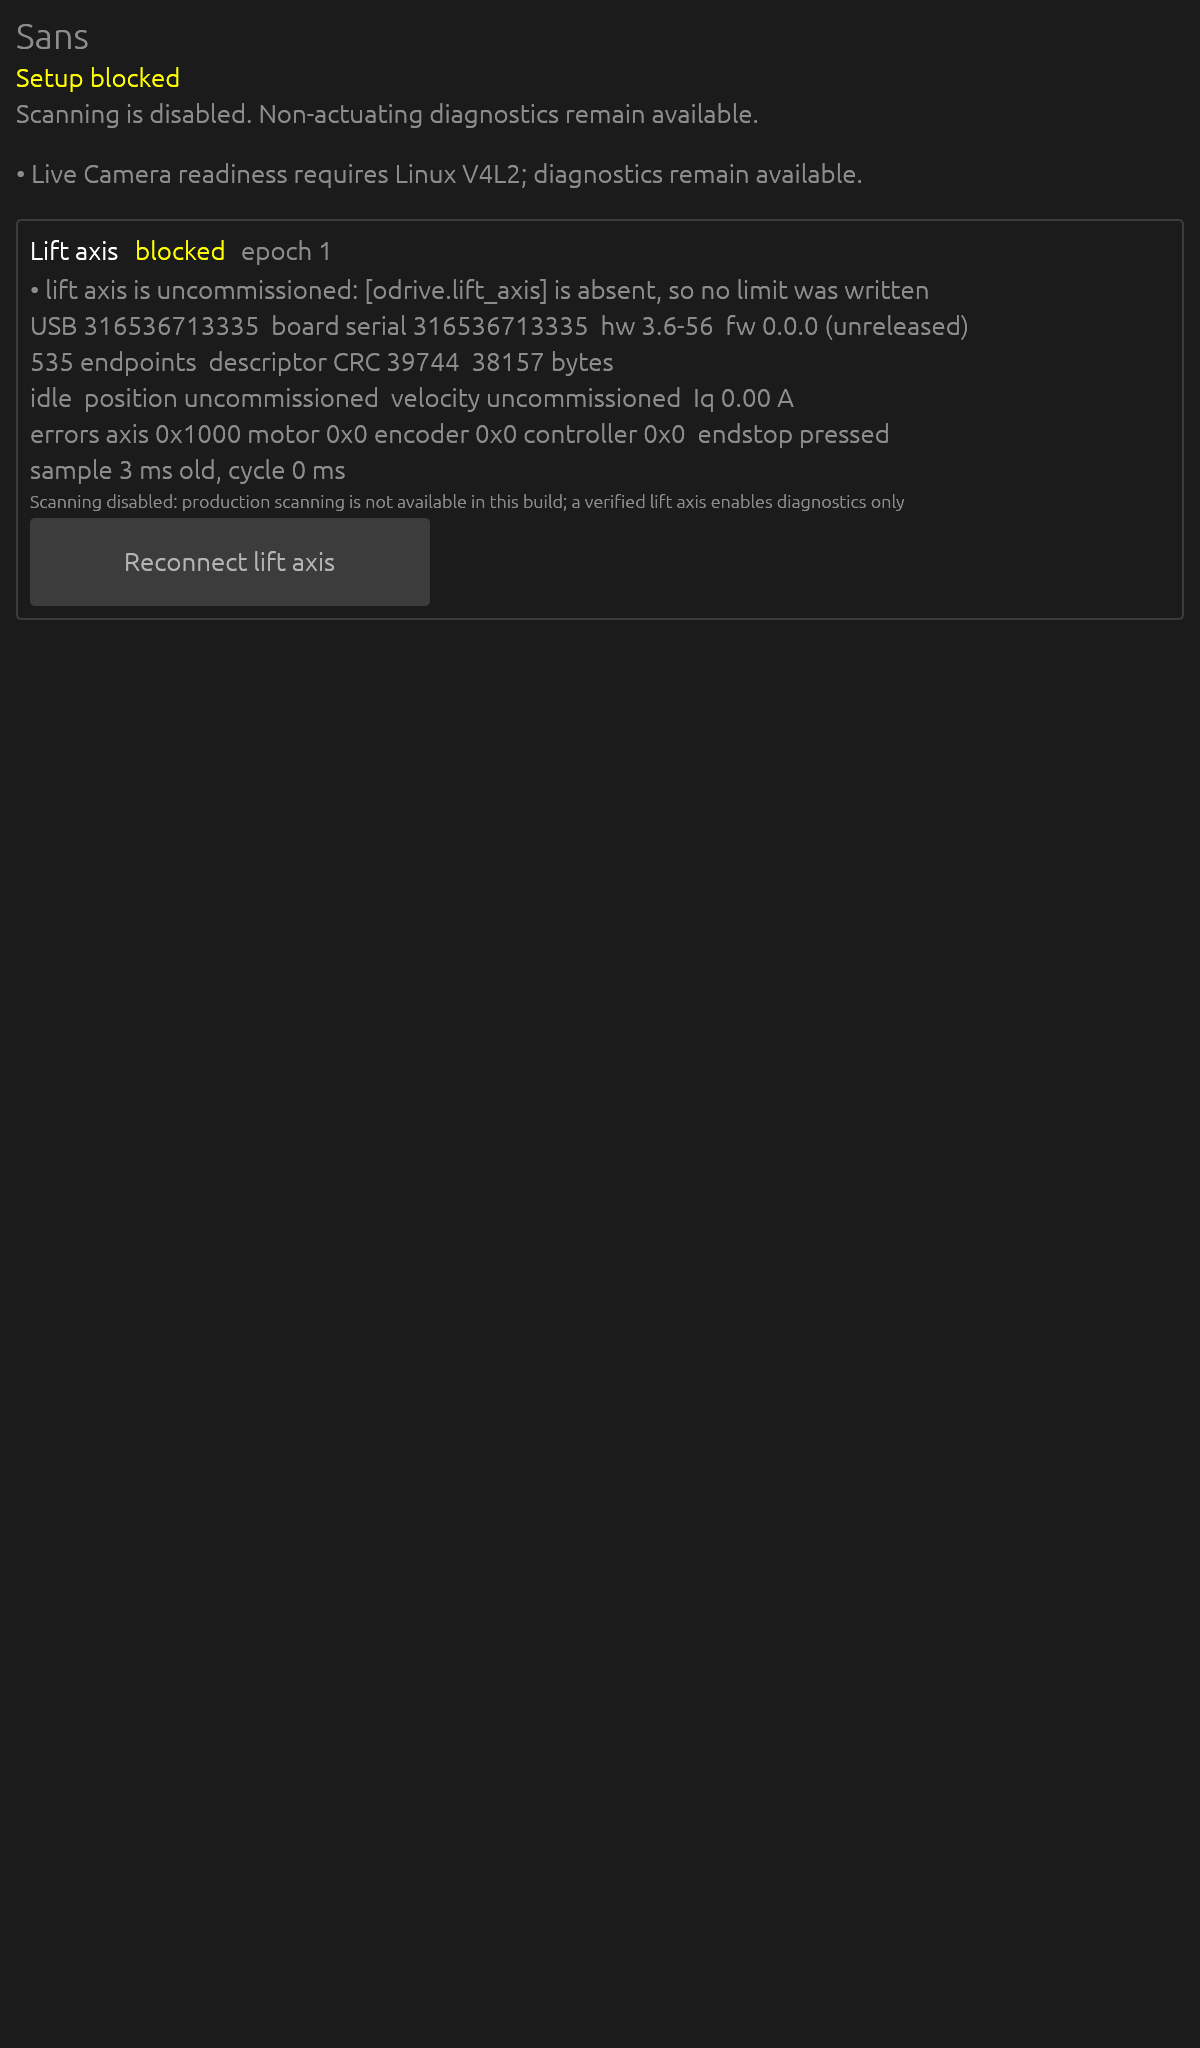
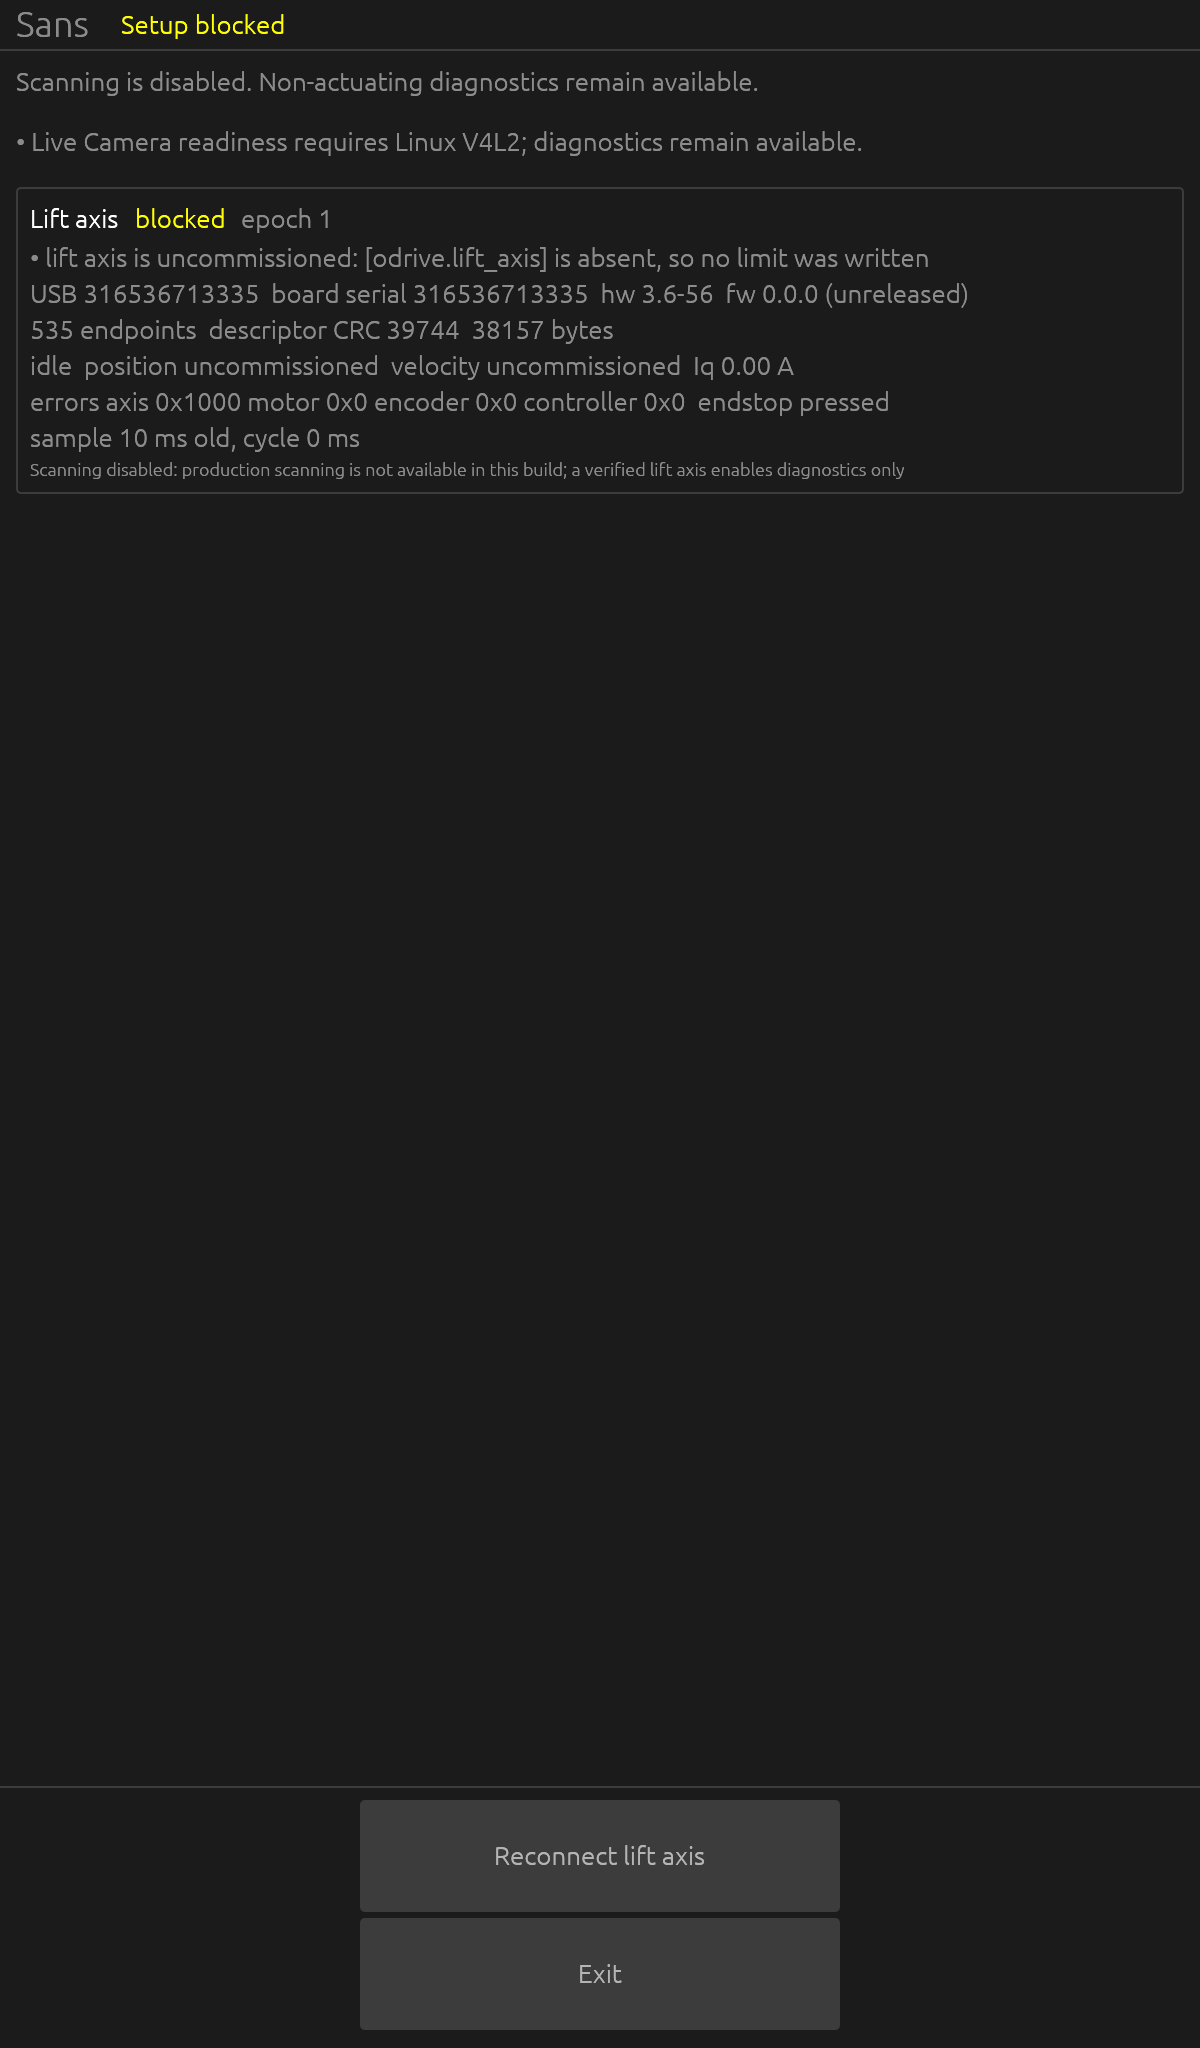
docs(odrive): show the lift axis on the rebased Setup screens
Regenerate the fake-device screenshots from the real application after
the screen layout moved into the sans library: lift-axis status in the
Setup body and the reconnect action in the action bar. The README notes
that the capture preview keeps its full body for the camera views.

Refs #58

Changed region(s): [[0.0, 0.0, 0.8017, 0.3125], [0.2775, 0.875, 0.7092, 1.0]]

diff --git a/README.md b/README.md
@@ -71,7 +71,7 @@ The `[odrive]` section names the lift-axis board by USB serial. Its polling inte
 
 ## ODrive lift axis
 
-Sans talks to the MKS ODrive Mini over its native Fibre USB vendor interface (interface 2, bulk `0x03`/`0x83`) and leaves the CDC serial interfaces to the kernel. On each connection it checks the board's USB serial and `serial_number` against the profile, checks that every endpoint Sans uses exists with the right type and access, commands the axis idle, and writes and reads back the commissioned limits. Other endpoints may differ between firmware builds without blocking the link. Sans never saves, erases, reboots or flashes the board, and never changes its control or input mode. The lift-axis panel shows the discovered identity and descriptor CRC.
+Sans talks to the MKS ODrive Mini over its native Fibre USB vendor interface (interface 2, bulk `0x03`/`0x83`) and leaves the CDC serial interfaces to the kernel. On each connection it checks the board's USB serial and `serial_number` against the profile, checks that every endpoint Sans uses exists with the right type and access, commands the axis idle, and writes and reads back the commissioned limits. Other endpoints may differ between firmware builds without blocking the link. Sans never saves, erases, reboots or flashes the board, and never changes its control or input mode. The Setup screens show the lift-axis status, the discovered identity and descriptor CRC, with a reconnect action in the action bar; the capture preview keeps its full body for the camera views.
 
 Reconnection happens only from the touchscreen's reconnect button. A new connection opens only after the previous one has released the device: each USB half cancels its pending transfers and waits for `nusb` to reap them, within the device-open timeout per attempt, and a background reaper keeps trying without reporting release early.
 

diff --git a/docs/images/odrive/README.md b/docs/images/odrive/README.md
@@ -1,6 +1,6 @@
 # Fake-backed touchscreen evidence
 
-These screenshots show the native Setup screen using a fake Fibre device on macOS, with no live USB or camera access. They demonstrate presentation only.
+These screenshots render the real `sans` application's Setup screen using a fake Fibre device on macOS, with no live USB or camera access. They demonstrate presentation only.
 
 - `fake-uncommissioned.png`: absent lift-axis commissioning table keeps setup blocked.
 - `fake-verified.png`: verified adapter gate with the captured endstop error reproduced by the fake. Scanning remains disabled.
